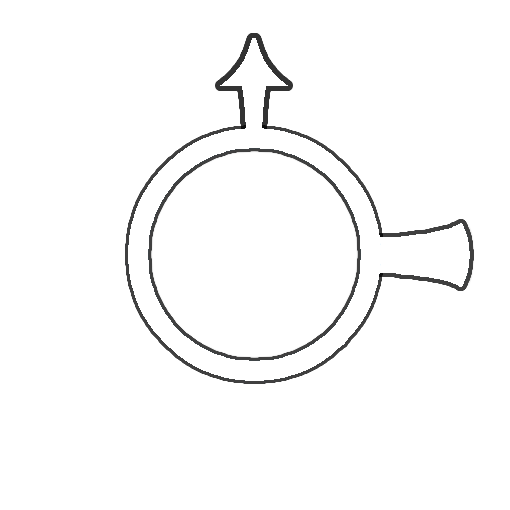
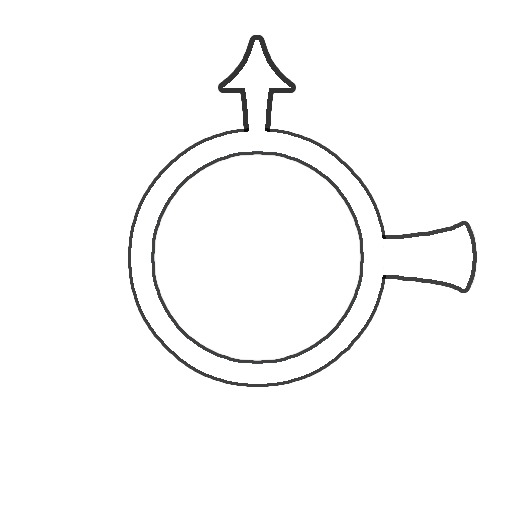
Update to v1.1.7
- fixed crash that occured for linux and mac users when making a dig errand
- resized crossings' icons(few pixels, but now they don't overlap when being close together)

diff --git a/AdvancedFlowManagement/Patches/CopyCrossingConfiguration_Patches.cs b/AdvancedFlowManagement/Patches/CopyCrossingConfiguration_Patches.cs
@@ -64,10 +64,23 @@ namespace AdvancedFlowManagement.Patches {
          }
       }
 
-      [HarmonyPatch(typeof(DragTool), "OnDragComplete")]
+      [HarmonyPatch(typeof(DragTool), "OnLeftClickUp")]
       public static class OnCopyConfigurationsComplete_Patch {
-         public static void Postfix(DragTool __instance) {
-            if(__instance is CopySettingsTool)
+         public static void Prefix(Vector3 cursor_pos, DragTool __instance, out bool __state) {
+            __state = false;
+
+            if(!(__instance is CopySettingsTool) || !__instance.dragging)
+               return;
+
+            DragTool.Mode mode = __instance.GetMode();
+            if(mode != DragTool.Mode.Box && mode != DragTool.Mode.Line || __instance.areaVisualizer == null)
+               return;
+
+            __state = true;
+         }
+
+         public static void Postfix(Vector3 cursor_pos, bool __state) {
+            if(__state)
             {
                foreach(var network in dirtyNetworks)
                {
